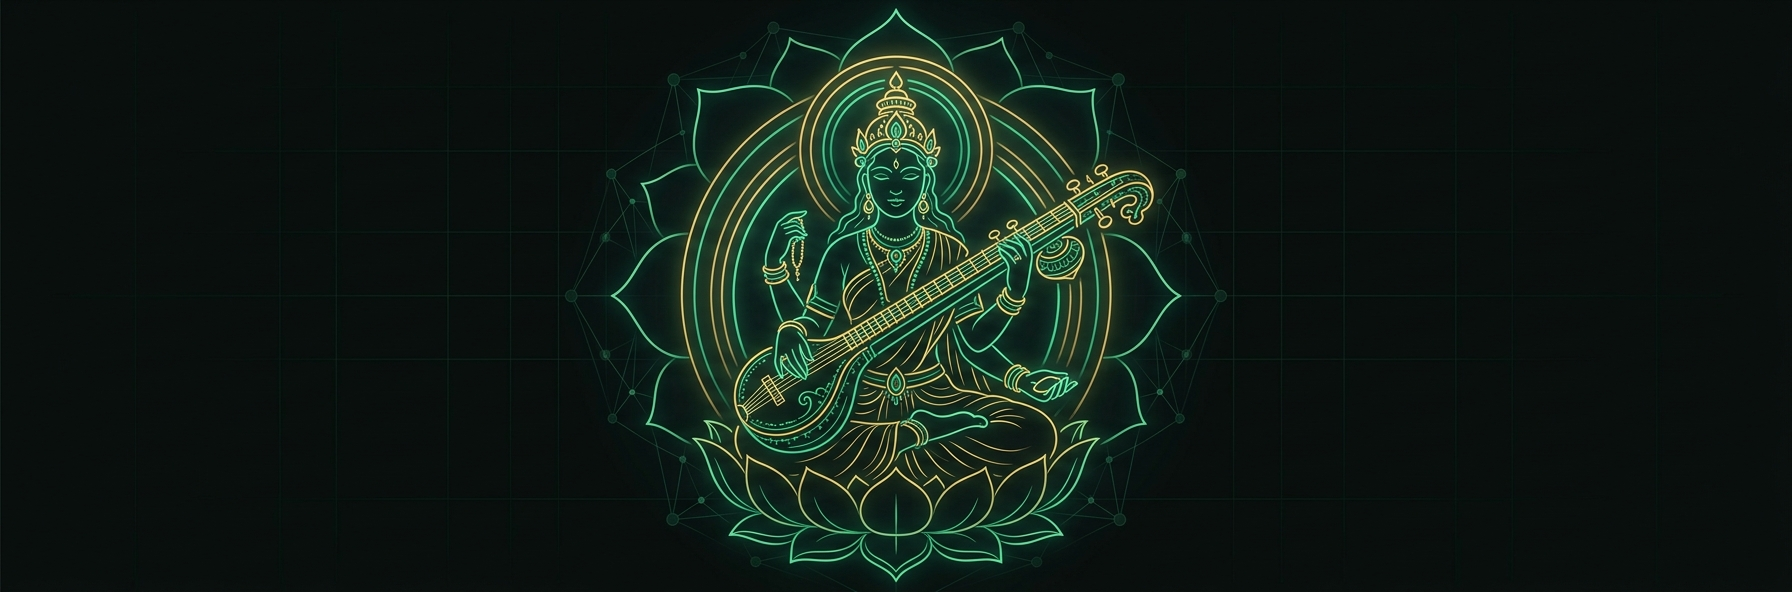
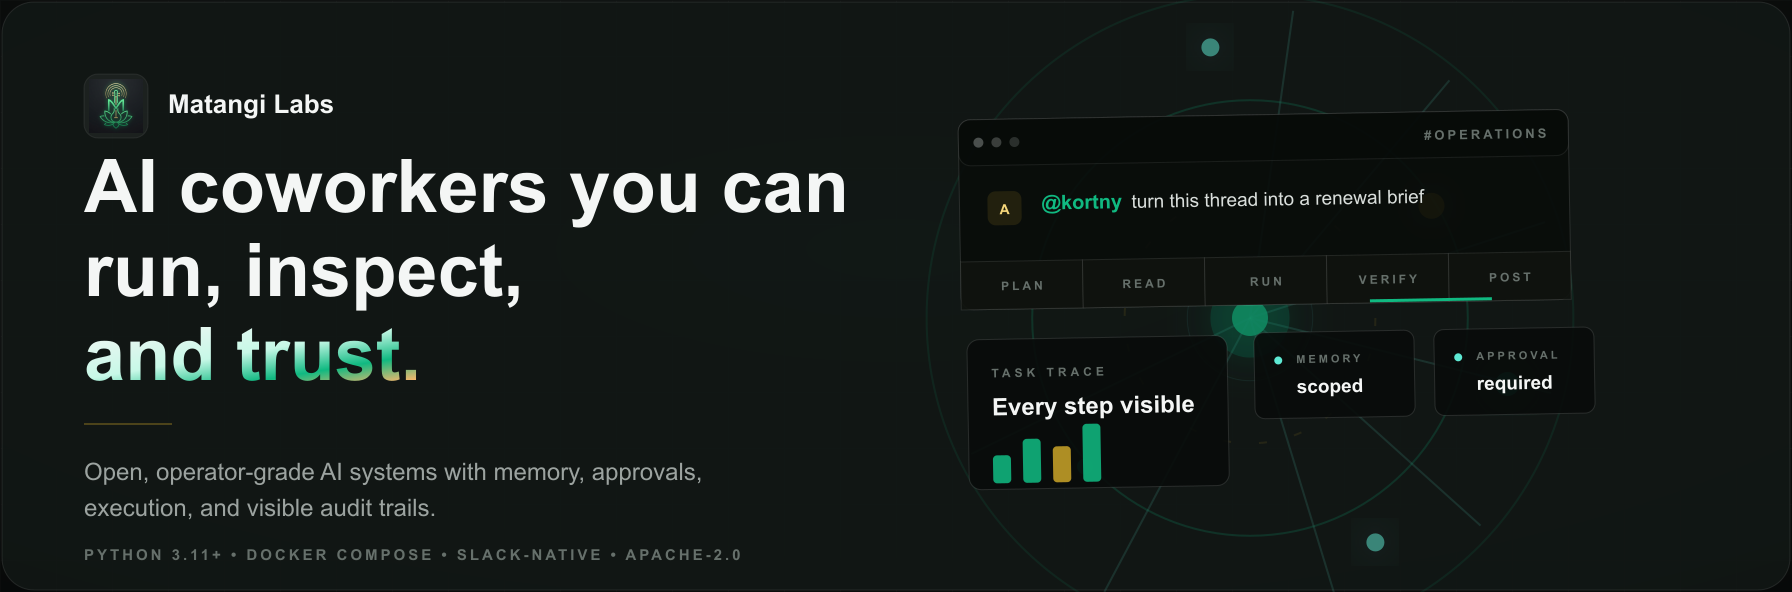
Refresh organization profile graphics

diff --git a/profile/README.md b/profile/README.md
@@ -1,16 +1,11 @@
 <div align="center">
 
-# Matangi Labs
-
-### Building AI coworkers that live where your team works.
-
-<img src="matangi-banner.png" alt="Matangi, goddess of speech and the inner word, playing the veena, rendered in the Matangi Labs emerald and gold instrument style" width="100%" />
+<img src="matangi-banner.png" alt="Matangi Labs banner showing an instrument-style radar, traceable AI coworker artifacts, and the line AI coworkers you can run, inspect, and trust." width="100%" />
 
 [![Website](https://img.shields.io/badge/Website-matangilabs.com-047857?style=for-the-badge)](https://matangilabs.com)
-[![Kortny](https://img.shields.io/badge/Kortny-kortny.ai-047857?style=for-the-badge)](https://kortny.ai)
+[![Kortny](https://img.shields.io/badge/Kortny-kortny.dev-047857?style=for-the-badge)](https://kortny.dev)
 [![Stars](https://img.shields.io/github/stars/matangilabs/kortny?style=for-the-badge&color=047857&logo=github&logoColor=white&label=Star%20Kortny)](https://github.com/matangilabs/kortny)
 [![License](https://img.shields.io/github/license/matangilabs/kortny?style=for-the-badge&color=047857)](https://github.com/matangilabs/kortny/blob/main/LICENSE)
-[![Discord](https://img.shields.io/badge/Discord-join-047857?style=for-the-badge&logo=discord&logoColor=white)](https://discord.gg/pW2t5UfAtE)
 
 </div>
 
@@ -20,28 +15,30 @@ We build AI coworkers, not chatbots.
 
 A chatbot answers when spoken to and forgets you the moment the tab closes. A coworker remembers what your team is working on, notices what needs doing, and acts inside the tools you already live in. That gap, judgment and memory and presence, is the whole product.
 
-We are named for Matangi, the goddess of speech, music, and the inner word. The name fits the work: software whose job is to listen well, hold context, and respond in language that helps.
+Matangi is the goddess of speech, music, knowledge, arts and learning. The name points us toward software that listens well, holds context, and responds in language that helps.
+
+<img src="lab-standard.png" alt="The Matangi Labs standard: run, inspect, approve, and trust self-hosted AI coworker systems." width="100%" />
 
 ## Kortny
 
-[**Kortny**](https://kortny.ai) is our first coworker: a self-hosted, Slack-native AI teammate.
+[**Kortny**](https://kortny.dev) is a self-hosted, Slack-native AI coworker.
 
-Mention it in a thread and it plans, runs real work across the 100+ tools your team already uses, executes code in a sandbox, remembers how your team works, and posts the result back to the thread it came from. Underneath sit the things that make it feel less like a bot and more like a colleague: a workspace memory, a knowledge graph, ambient channel observation, and proactive suggestions.
+Mention it in a thread and it plans, runs real work across the tools your team already uses, executes code in a sandbox, remembers how your team works, and posts the result back to the thread it came from. Underneath sit the surfaces that make it feel less like a bot and more like a colleague: workspace memory, a knowledge graph, ambient channel observation, approvals, and traceable execution.
 
-It is open source and yours to run. Your data stays in your infrastructure, your approvals gate every outward action, and you own the whole stack.
+It is open source and yours to run. Your data stays in your infrastructure, your approvals gate outward action, and you own the stack.
 
-[![Kortny repo](https://github-readme-stats.vercel.app/api/pin/?username=matangilabs&repo=kortny&hide_border=true&bg_color=0C0F0E&title_color=10B981&icon_color=C9A227&text_color=9CA3A0)](https://github.com/matangilabs/kortny)
+<img src="kortny-proof.png" alt="Kortny proof surface showing a Slack request becoming traceable work with visible plan, read, run, verify, post steps and approval state." width="100%" />
 
 ### How it compares
 
 |  | **Kortny** | Hosted AI coworkers | Generic Slack bots |
 |---|:---:|:---:|:---:|
 | Where your data lives | **Your servers** | Vendor cloud | Vendor cloud |
-| Runs on your infrastructure | ✅ | ❌ | ❌ |
-| Executes real code & ships files | ✅ | sometimes | ❌ |
-| Long-term memory + knowledge graph | ✅ | varies | ❌ |
-| Full audit log: every step & cost | ✅ | ❌ | partial |
-| Bring-your-own LLM keys (no markup) | ✅ | ❌ | ❌ |
+| Runs on your infrastructure | yes | no | no |
+| Executes real code and ships files | yes | sometimes | no |
+| Long-term memory plus knowledge graph | yes | varies | no |
+| Full audit log: every step and cost | yes | no | partial |
+| Bring-your-own LLM keys, no markup | yes | no | no |
 | License | **Apache-2.0** | Proprietary | Proprietary |
 
 ### Run it in three commands
@@ -49,5 +46,8 @@ It is open source and yours to run. Your data stays in your infrastructure, your
 ```sh
 git clone https://github.com/matangilabs/kortny
 cd kortny
-cp .env.example .env   # add Slack + LLM keys, then:
+cp .env.example .env   # add Slack and LLM keys, then:
 docker compose up -d --force-recreate
+```
+
+**Runtime facts:** Python 3.11+, Docker Compose, Slack-native, Apache-2.0.